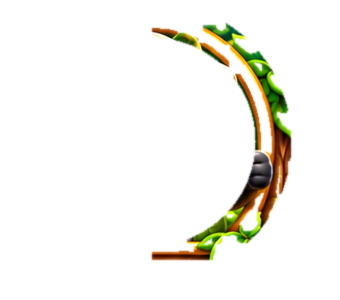
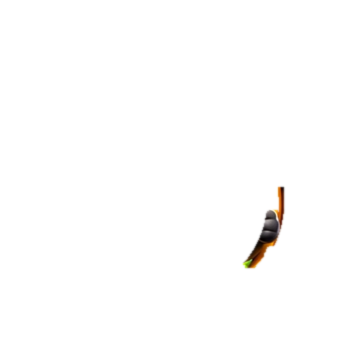
match3 2.26.0: level screen rebuilt from taller owner reference v3 (830x1895) — no stretched filler
Claude-Session: https://claude.ai/code/session_01XZnRVWwFVjn3ia4dnrtNSm

Changed region(s): [[0.4412, 0.06, 0.8824, 0.87]]

diff --git a/match3/tools/refbuild.py b/match3/tools/refbuild.py
@@ -1,12 +1,13 @@
 #!/usr/bin/env python3
-"""Экран уровня 1:1 по референсу владельца (docs/games/match3/references/screen_02_level_v2.webp).
+"""Экран уровня 1:1 по референсу владельца (docs/games/match3/references/screen_02_level_v3.webp, 830×1895).
 
 Из самого референса делается фон экрана уровня: плашки шапки, рамка панды, рамка поля, лоток —
-пиксель в пиксель. Игровое (цели, ходы, панда, фишки, кнопки) рисуется поверх в тех же местах.
+пиксель в пиксель. Игровое (цели, ходы, фишки, кнопки) рисуется поверх в тех же местах.
 python3 tools/refbuild.py REF.webp
-Выход: assets/art/lvref_bg.webp (фон, 898 px в ширину; из середины поля вырезано 68 строк,
-чтобы клетки были квадратные: 8×10 по 86 px), lvref_ring.png (рамка панды поверх панды),
-lvref_count.png (маленькая плашка числа цели).
+Выход (assets/art): lvref_bg.webp — фон (из середины поля вырезано CUT строк, чтобы клетки были
+квадратные), lvref_ring.png — рамка панды поверх панды, lvref_panda.png — панда из круга,
+lvref_thumb.png — палец панды поверх рамки, lvref_count.png — маленькая плашка числа цели.
+Координаты ниже продублированы в scripts/main.gd (LVW и рядом) — менять вместе.
 """
 import os
 import sys
@@ -16,12 +17,17 @@ from PIL import Image, ImageDraw, ImageFilter
 
 ROOT = os.path.dirname(os.path.dirname(os.path.abspath(__file__)))
 OUT = os.path.join(ROOT, "assets", "art")
-CX, CY, RI = 451, 141, 110          # рамка панды: центр и внутренний радиус
-BOARD = (105, 400, 793, 1328)       # внутренность рамки поля
-CUT = (1150, 1218)                  # вырезаемые строки (68): клетки 86×86
-TRAY_Y = (1500, 1702)               # зелёное поле лотка
-TRAY_X = list(range(74, 674)) + list(range(688, 847))  # всё, кроме золотой черты перед паузой
-CLEAN_X = 698                       # чистый столбец зелени лотка
+CX, CY, RI = 417, 198, 104          # рамка панды: центр и внутренний радиус
+RING_BOX = (250, 0, 590, 360)       # область слоя рамки
+MOVES_IN = (577, 182, 788, 284)     # чистая внутренность плашки ходов
+GOAL_IN = (44, 186, 291, 286)       # внутренность плашки целей (заливается чистой)
+COUNT = (54, 253, 116, 283)         # маленькая плашка числа цели
+BOARD = (100, 462, 730, 1298)       # внутренность рамки поля
+CUT = (880, 928)                    # вырезаемые строки (48): клетки 78.75×78.8
+TRAY_Y = (1669, 1845)               # зелёное поле лотка
+CLEAN_X = 640                       # чистый столбец зелени лотка
+CIRCLES = [(150, 1754, 94), (335, 1754, 94), (520, 1754, 94), (205, 1802, 38), (390, 1802, 38),
+           (572, 1802, 38), (710, 1759, 72)]
 
 
 def main() -> None:
@@ -32,44 +38,47 @@ def main() -> None:
     yy, xx = np.mgrid[0:H, 0:W]
     d = np.sqrt((xx - CX) ** 2 + (yy - CY) ** 2)
     # большой палец панды поверх правой части рамки — заменяем зеркальным куском рамки слева
-    band = (d > RI - 6) & (d < RI + 30) & (xx > CX) & (yy < 260)
+    band = (d > RI - 4) & (d < RI + 13) & (xx > CX) & (yy > CY - 12) & (yy < CY + 70)
     fix = band & (orig.max(axis=2) < 110)
     fix = (np.asarray(Image.fromarray((fix * 255).astype(np.uint8)).filter(ImageFilter.MaxFilter(7))) > 0) & band
     mx = (2 * CX - xx).clip(0, W - 1)
     a[fix] = orig[yy[fix], mx[fix]]
     ring_src = a.copy()
-    # панда из референса: содержимое круга (для портрета) и палец поверх рамки (отдельным слоем)
+    rx0, ry0, rx1, ry1 = RING_BOX
+    # панда из референса: содержимое круга и палец поверх рамки (отдельным слоем)
     box = (CX - RI - 2, CY - RI - 2, CX + RI + 2, CY + RI + 2)
     pc = src.crop(box).convert("RGBA")
     pm = Image.new("L", pc.size, 0)
     ImageDraw.Draw(pm).ellipse((2, 2, 2 * RI + 2, 2 * RI + 2), fill=255)
     pc.putalpha(pm.filter(ImageFilter.GaussianBlur(0.8)))
     pc.save(os.path.join(OUT, "lvref_panda.png"))
-    th = Image.fromarray(orig[0:300, 300:640].astype(np.uint8)).convert("RGBA")
-    th.putalpha(Image.fromarray((fix[0:300, 300:640] * 255).astype(np.uint8)).filter(ImageFilter.GaussianBlur(0.8)))
+    th = Image.fromarray(orig[ry0:ry1, rx0:rx1].astype(np.uint8)).convert("RGBA")
+    th.putalpha(Image.fromarray((fix[ry0:ry1, rx0:rx1] * 255).astype(np.uint8)).filter(ImageFilter.GaussianBlur(0.8)))
     th.save(os.path.join(OUT, "lvref_thumb.png"))
-    # плашка целей: внутренность заменяем чистой внутренностью плашки ходов
-    im = Image.fromarray(a.astype(np.uint8))
-    mv = src.crop((628, 112, 848, 240)).resize((266, 140), Image.LANCZOS)
-    mask = Image.new("L", (266, 140), 0)
-    ImageDraw.Draw(mask).rounded_rectangle((0, 0, 265, 139), 26, fill=255)
-    im.paste(mv, (52, 108), mask.filter(ImageFilter.GaussianBlur(3)))
-    a = np.asarray(im).astype(np.float32).copy()
-    src.crop((58, 197, 128, 234)).save(os.path.join(OUT, "lvref_count.png"))
+    # плашка целей: нарисованные иконки и плашки чисел закрашиваем по соседнему кремовому цвету
+    # цвет строки берём из чистой плашки ходов (она на 3 px выше), край области — мягкий
+    gx0, gy0, gx1, gy1 = GOAL_IN
+    rowcol = orig[gy0 - 3:gy1 - 3, 660:700].mean(axis=1)[:, None, :]
+    gm = Image.new("L", (W, H), 0)
+    ImageDraw.Draw(gm).rounded_rectangle((gx0, gy0, gx1, gy1), 16, fill=255)
+    gma = (np.asarray(gm.filter(ImageFilter.GaussianBlur(3))).astype(np.float32) / 255.0)[gy0 - 8:gy1 + 8, gx0 - 8:gx1 + 8, None]
+    rc = np.pad(rowcol, ((8, 8), (0, 0), (0, 0)), mode="edge")
+    reg0 = a[gy0 - 8:gy1 + 8, gx0 - 8:gx1 + 8]
+    a[gy0 - 8:gy1 + 8, gx0 - 8:gx1 + 8] = reg0 * (1 - gma) + rc * gma
+    src.crop(COUNT).save(os.path.join(OUT, "lvref_count.png"))
     # круг панды — мягкий зелёный фон
-    inside = (d < RI + 3) & (yy < 252)
+    inside = (d < RI + 3) & (yy < CY + 111)
     t = np.clip(d / RI, 0, 1)[..., None]
     fill = np.array([78, 150, 50]) * (1 - t) + np.array([36, 92, 28]) * t
     a = np.where(inside[..., None], fill, a)
-    # рамка панды отдельным слоем: внутри прозрачно, листья снизу остаются
-    reg = ring_src[0:300, 300:640]
-    ry, rx = np.mgrid[0:300, 300:640]
+    # слой рамки: только золотое кольцо и листья внизу внутри него (всё остальное — в фоне)
+    reg = ring_src[ry0:ry1, rx0:rx1]
+    ry, rx = np.mgrid[ry0:ry1, rx0:rx1]
     dd = np.sqrt((rx - CX) ** 2 + (ry - CY) ** 2)
     r, g, b = reg[..., 0], reg[..., 1], reg[..., 2]
-    leaf = (g > 150) & (g > r * 1.05) & (b < 120) & (ry >= 200) & ((rx < 428) | (rx > 500))
-    # слой рамки: только золотое кольцо и листья внизу внутри него (всё остальное — в фоне)
+    leaf = (g > 150) & (g > r * 1.05) & (b < 120) & (ry >= CY + 59) & ((rx < CX - 23) | (rx > CX + 49))
     A = np.zeros(reg.shape[:2])
-    A[(dd >= RI - 1) & (dd <= RI + 20) & (ry < 262)] = 255
+    A[(dd >= RI - 1) & (dd <= RI + 10) & (ry < CY + 121)] = 255
     A[leaf & (dd < RI + 30)] = 255
     ring = Image.fromarray(reg.astype(np.uint8)).convert("RGBA")
     ring.putalpha(Image.fromarray(A.astype(np.uint8)).filter(ImageFilter.GaussianBlur(1.0)))
@@ -77,19 +86,16 @@ def main() -> None:
     # внутренность поля — ровная тёплая подложка (видна только в «дырах» фигурных полей)
     x0, y0, x1, y1 = BOARD
     a[y0:y1, x0:x1] = np.array([214, 190, 150])
-    # лоток: убираем нарисованные кнопки (игра рисует свои на тех же местах) — только пиксели кругов
-    # кнопок и счётчиков; зелень лотка берётся из чистого столбца той же строки, листья сохраняются
-    circles = [(165, 1602, 97), (364, 1602, 97), (562, 1602, 97), (220, 1655, 40), (418, 1655, 40),
-               (617, 1655, 40), (775, 1600, 76)]
+    # лоток: убираем нарисованные кнопки (игра рисует свои на тех же местах) — только пиксели кругов;
+    # зелень берётся из чистого столбца той же строки, листья сохраняются
     m = np.zeros((H, W), bool)
-    for (ccx, ccy, cr) in circles:
+    for (ccx, ccy, cr) in CIRCLES:
         m |= (xx - ccx) ** 2 + (yy - ccy) ** 2 < cr * cr
     ty0, ty1 = TRAY_Y
     m[:ty0] = False
     m[ty1:] = False
     r, g, b = orig[..., 0], orig[..., 1], orig[..., 2]
-    leaf = (g > 165) & (g > r * 1.05) & (r > 80) & (b < 120) & (yy < 1550)
-    m &= ~leaf
+    m &= ~((g > 165) & (g > r * 1.05) & (r > 80) & (b < 120) & (yy < ty0 + 40))
     col = orig[:, CLEAN_X]
     a[m] = col[yy[m]]
     a = np.concatenate([a[:CUT[0]], a[CUT[1]:]], axis=0)

diff --git a/docs/DEVELOPMENT_STATUS.md b/docs/DEVELOPMENT_STATUS.md
@@ -46,3 +46,4 @@
 - v2.24.2 2026-11-16: шапка уровня по замечаниям владельца: плашки целей и ходов рисуются по 9 частям (углы с лапкой и листьями не растягиваются), числа целей без плашек — крупно белым с обводкой под иконкой, панда снова в золотой арке с листьями (меньше, внутри арки).
 - v2.25.0 2026-11-16: экран уровня 1:1 по новому референсу владельца (references/screen_02_level_v2.webp): фон экрана собран из самого референса (match3/tools/refbuild.py → assets/art/lvref_*): плашки целей и ходов, круглая рамка панды, рамка поля, лоток — пиксель в пиксель; нарисованное в референсе (иконки целей, панда, фишки, кнопки) убрано, игра рисует своё ровно на тех же местах. Панда по пояс в круглой рамке (обрезка по кругу), цели — иконки с маленькими плашками чисел, клетки 86 px референса (из середины поля вырезано 68 строк, чтобы клетки были квадратные), кнопки по центрам референса. Бустеры: «Ряд» и «Столбец» объединены в «Ракеты» (бьют крестом) — 3 бустера, как в референсе; старые запасы переносятся. Экран телефона выше референса — плитка между полем и лотком растягивается.
 - v2.25.1 2026-11-16: шапка уровня 1:1 по референсу (замечание «плашка цели и панда не 1 в 1»): панда-портрет — сама панда из референса (по пояс, палец вверх; палец поверх рамки отдельным слоем), дышит и реагирует движением внутри круга (подпрыгивает, качает головой, танцует, грустит) + облачка эмоций; видео-панда на этом экране не используется. Цели — по точным местам референса: иконки с шагом 90 px, плашки 70×37 под ними с числами по центру.
+- v2.26.0 2026-11-16: экран уровня пересобран по новому высокому референсу владельца (references/screen_02_level_v3.webp, 830×1895): фон, плашки, рамка панды, рамка поля и лоток — из референса (tools/refbuild.py, координаты продублированы в main.gd: LVW и рядом); растянутой размытой плитки больше нет — референс чуть выше экрана телефона, дорожка между полем и лотком сжимается на ~15%; из середины рамки поля вырезано 48 строк (клетки в референсе 78.75×83.6, в игре квадратные).
